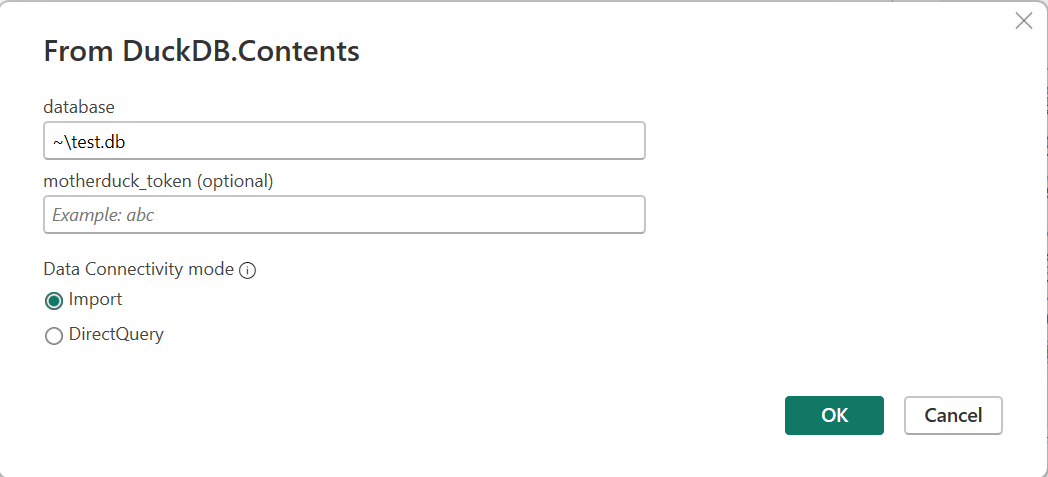
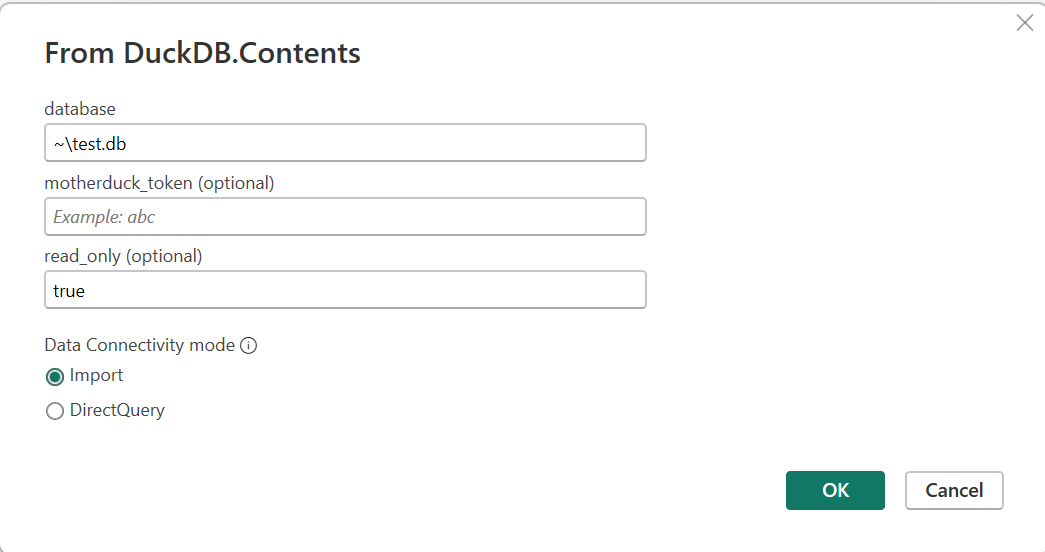
update README

diff --git a/README.md b/README.md
@@ -18,8 +18,9 @@ This is the Power Query Custom Connector for DuckDB. Use this to connect to a Du
 1. Click on Get Data -> More...
 1. Search for `DuckDB` and click "Connect"
 ![Find DuckDB connector](images/find-connector.png)
-1. Enter your database location. This can be a local file path (e.g. `~\my_database.db`) or a MotherDuck database location (e.g. `md:my_database`). (Optional) enter your [MotherDuck token](https://motherduck.com/docs/authenticating-to-motherduck/#authentication-using-a-service-token).
-![Connect to your DuckDB database](images/connect-duckdb.png). Click "OK".
+1. Enter your database location. This can be a local file path (e.g. `~\my_database.db`) or a MotherDuck database location (e.g. `md:my_database`). (Optional) enter your [MotherDuck token](https://app.motherduck.com/token-request?appName=PowerBI). If you want to access the database in `read_only` mode, you can set it to `true`.
+![Connect to your DuckDB database](images/connect-duckdb.png)
+Click "OK".
 1. Click "Connect".
 ![Connect dialog](images/connect.png)
 1. Select the table(s) you want to import. Click "Load".
